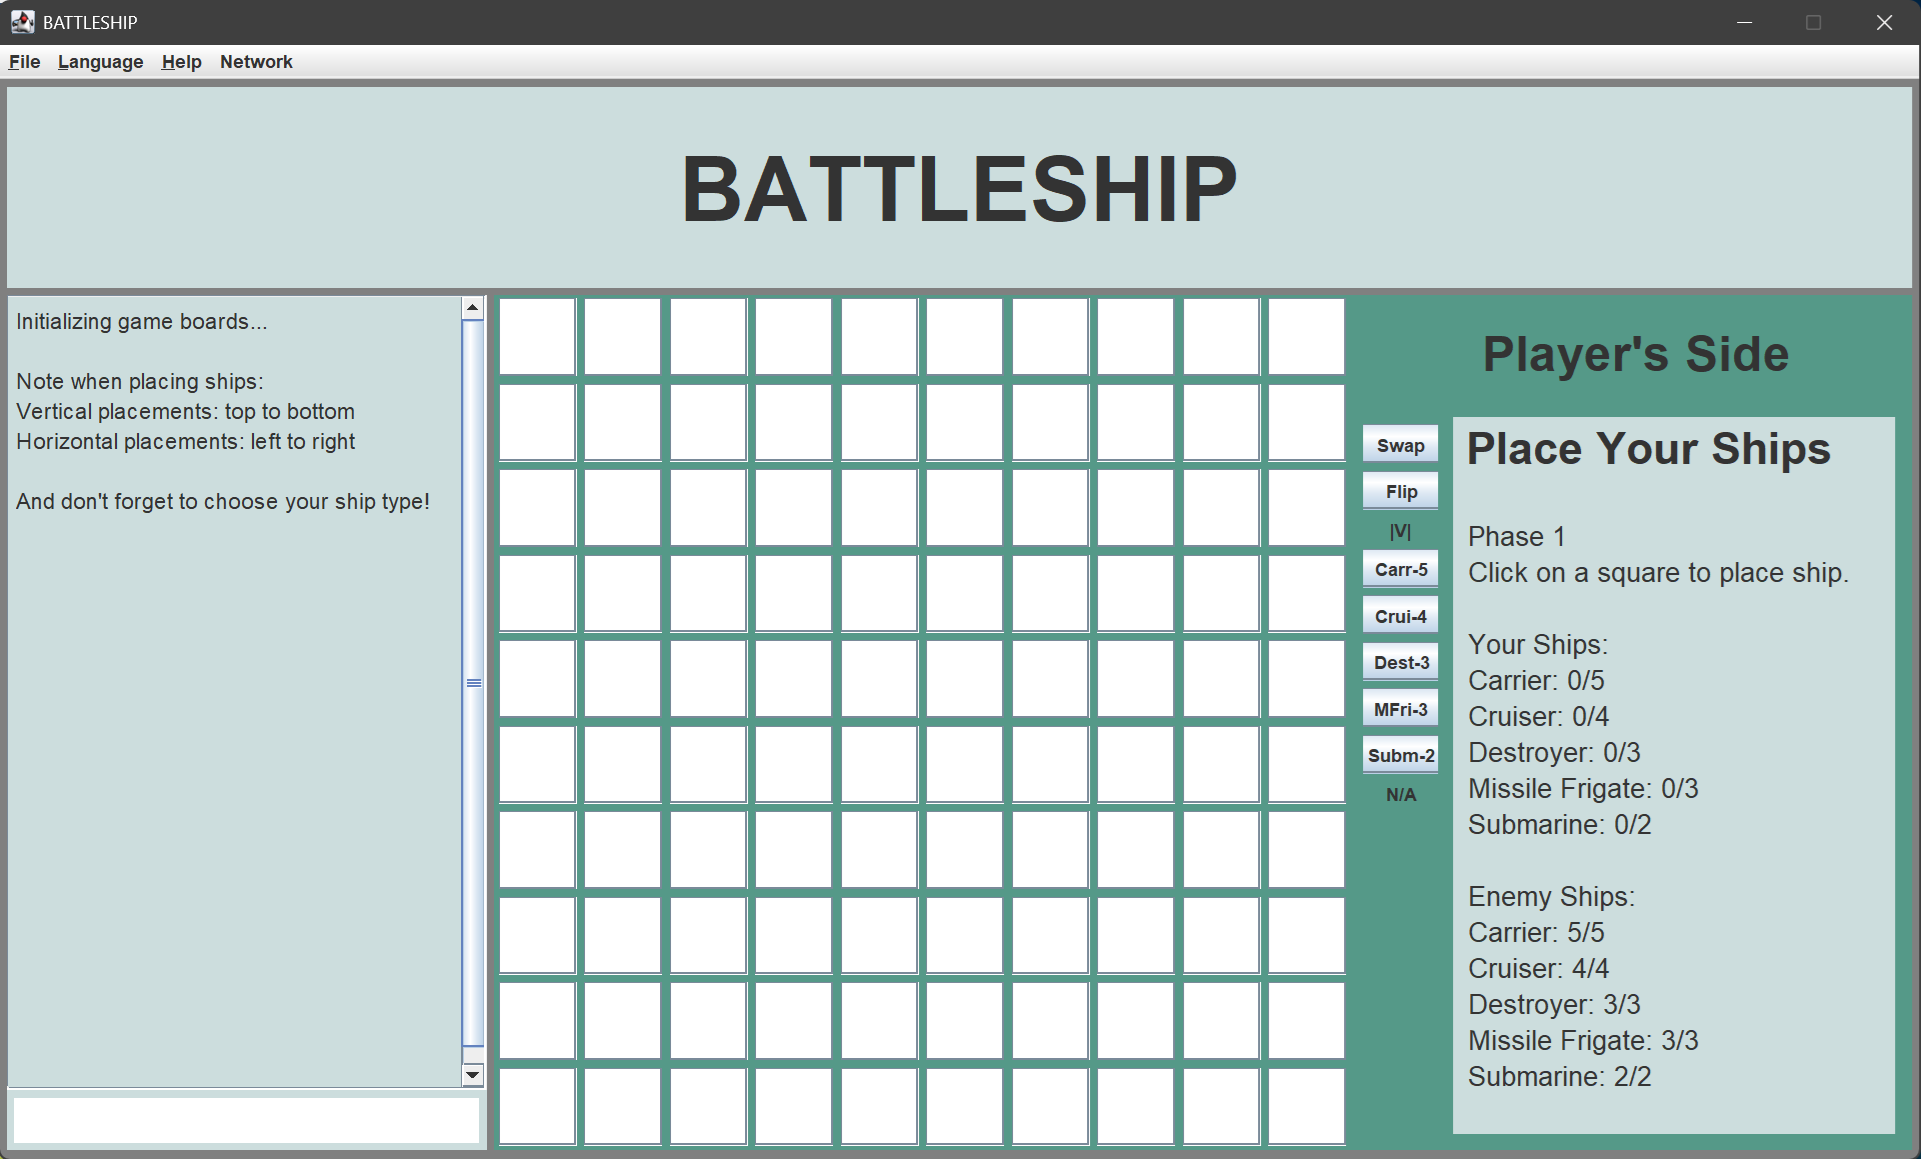
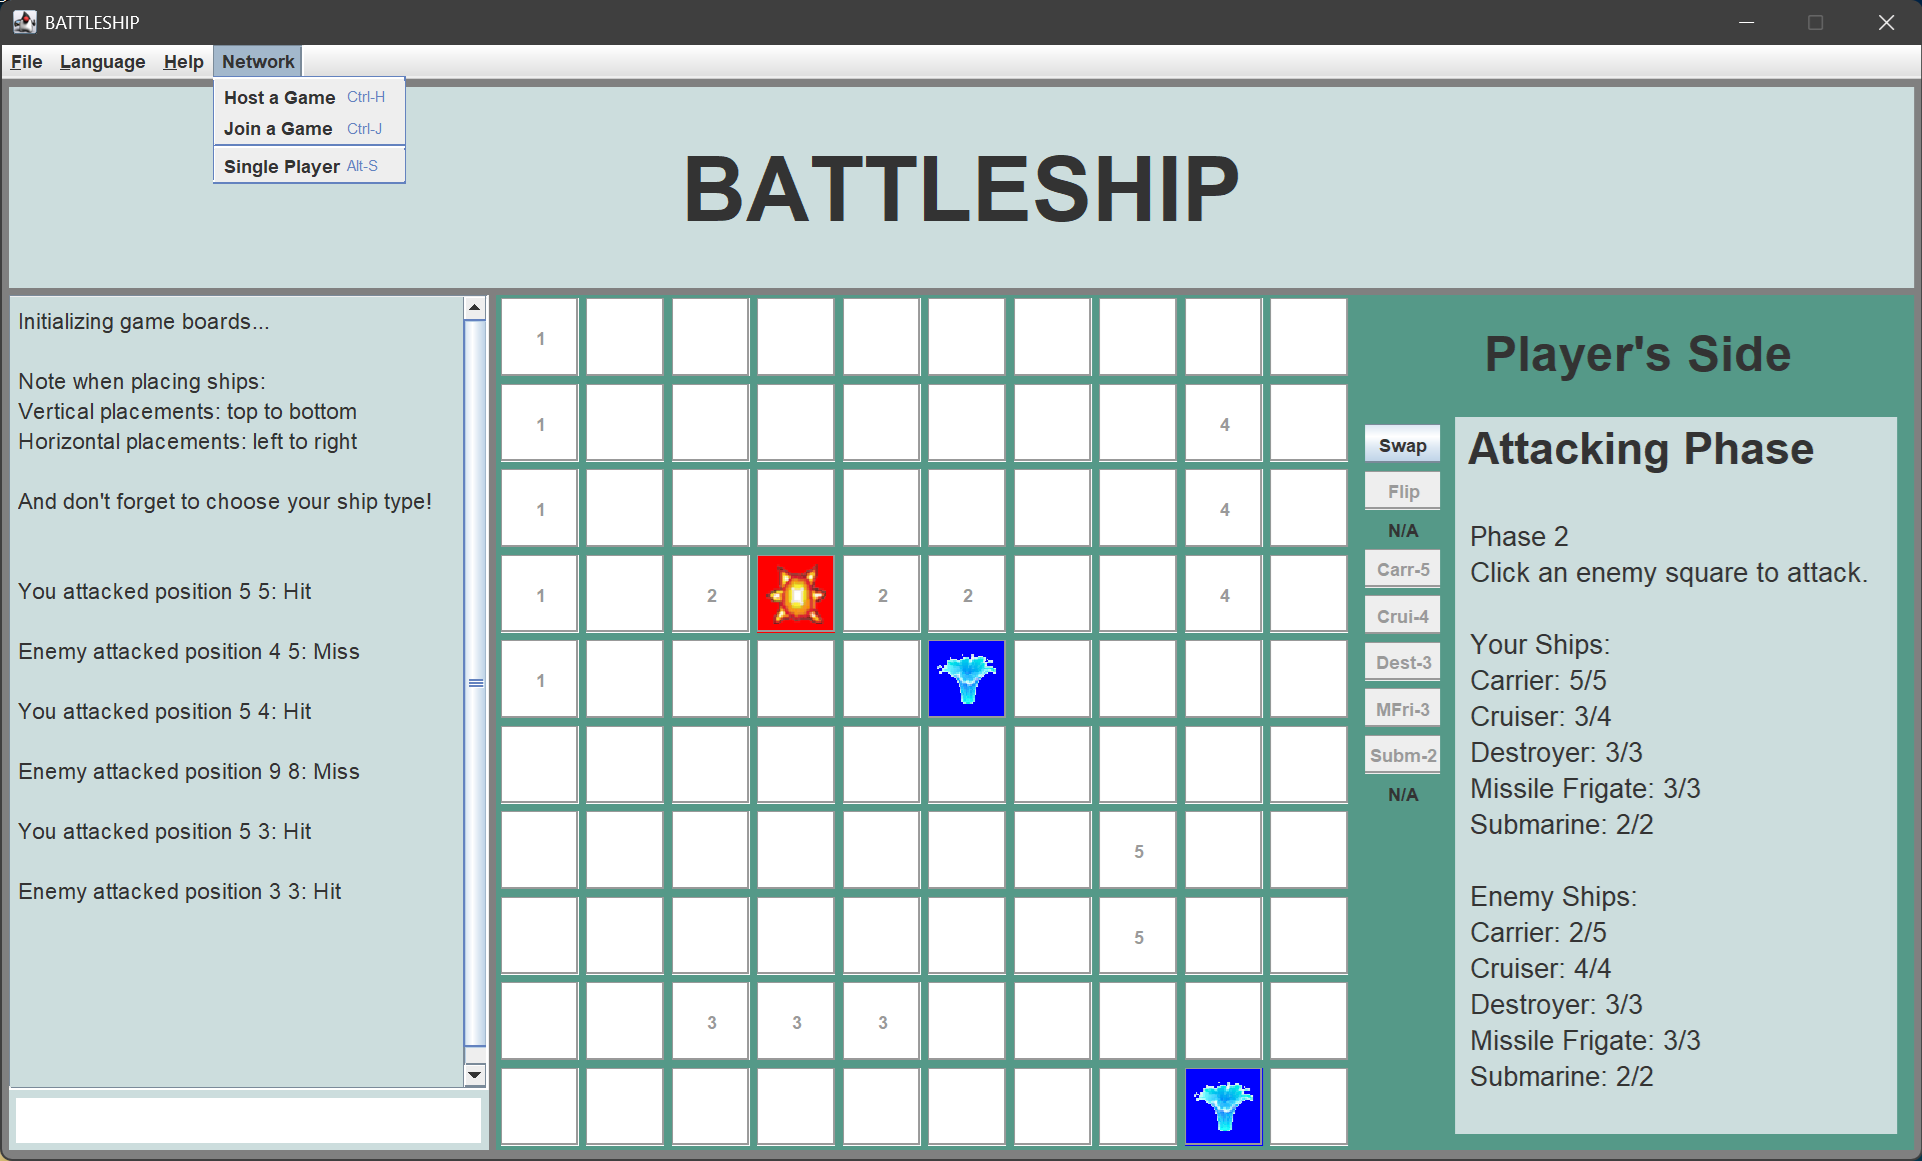
README Changes

diff --git a/README.md b/README.md
@@ -1,5 +1,11 @@
 # Battleship
 
-Recreation of the popular game Battleship with Java backend and Swing frontend. This was done in an MVC architecture with a network component added in the backend so players can play against each other and a developer mode where the player can see the computer opponent's board when playing.
+Recreation of the popular game Battleship with Java backend and Swing frontend with the following features:
+- MVC architecture
+- A network component added in the backend so players can play against each other
+- Developer mode where the player can see the computer opponent's board when playing
+- Some internatonalization to translate between English and Tagalog
+
+<br/>
 
 ![game-screenshot](./game-screenshot.png)
